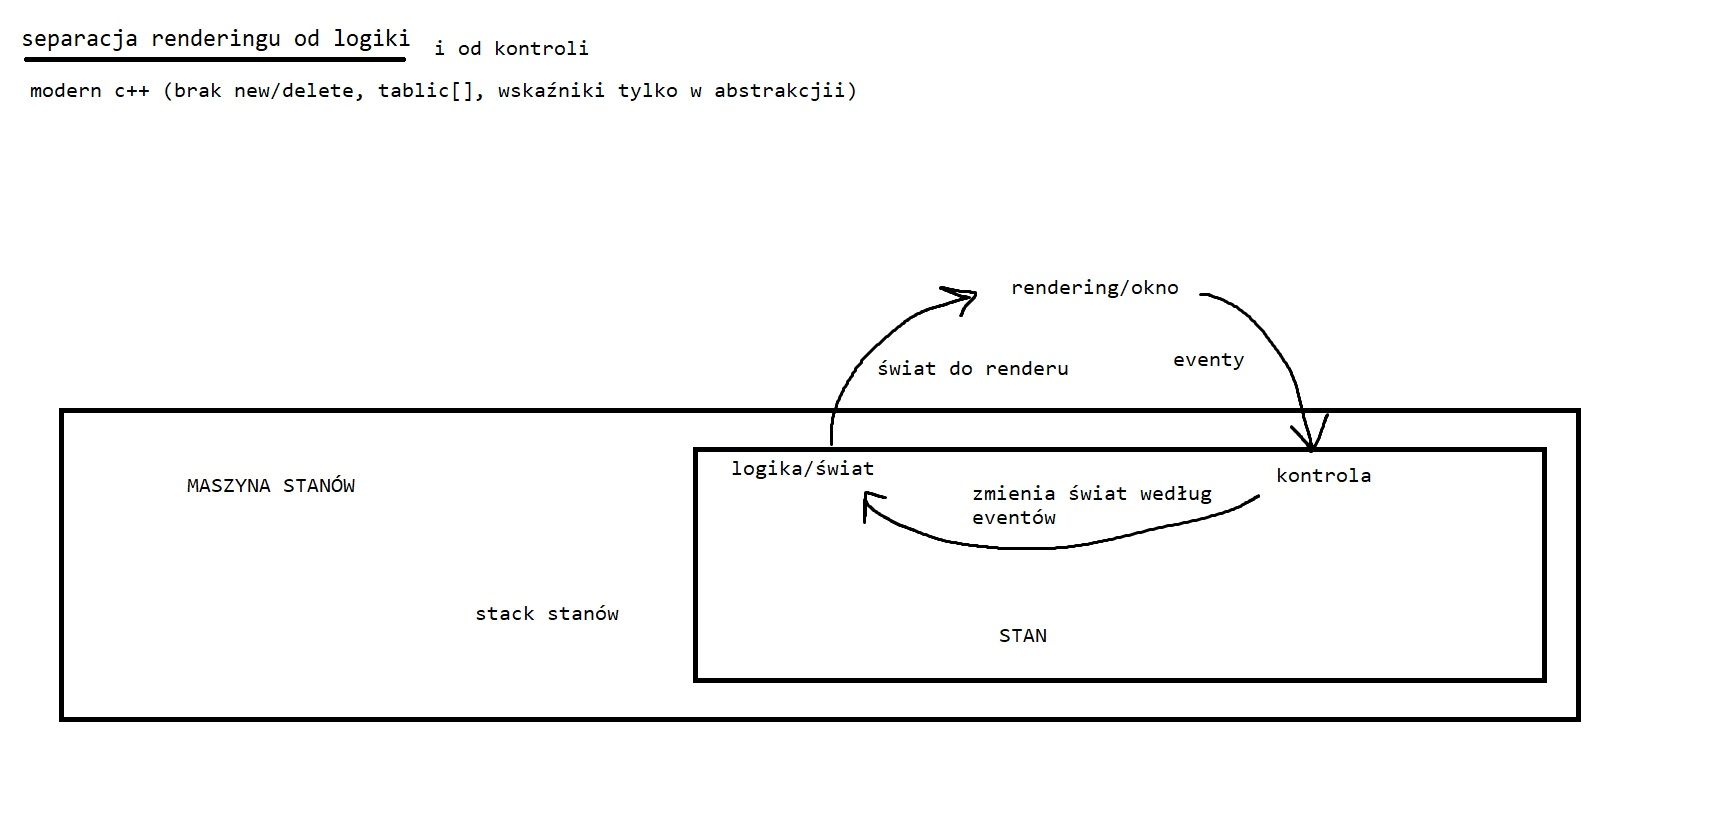
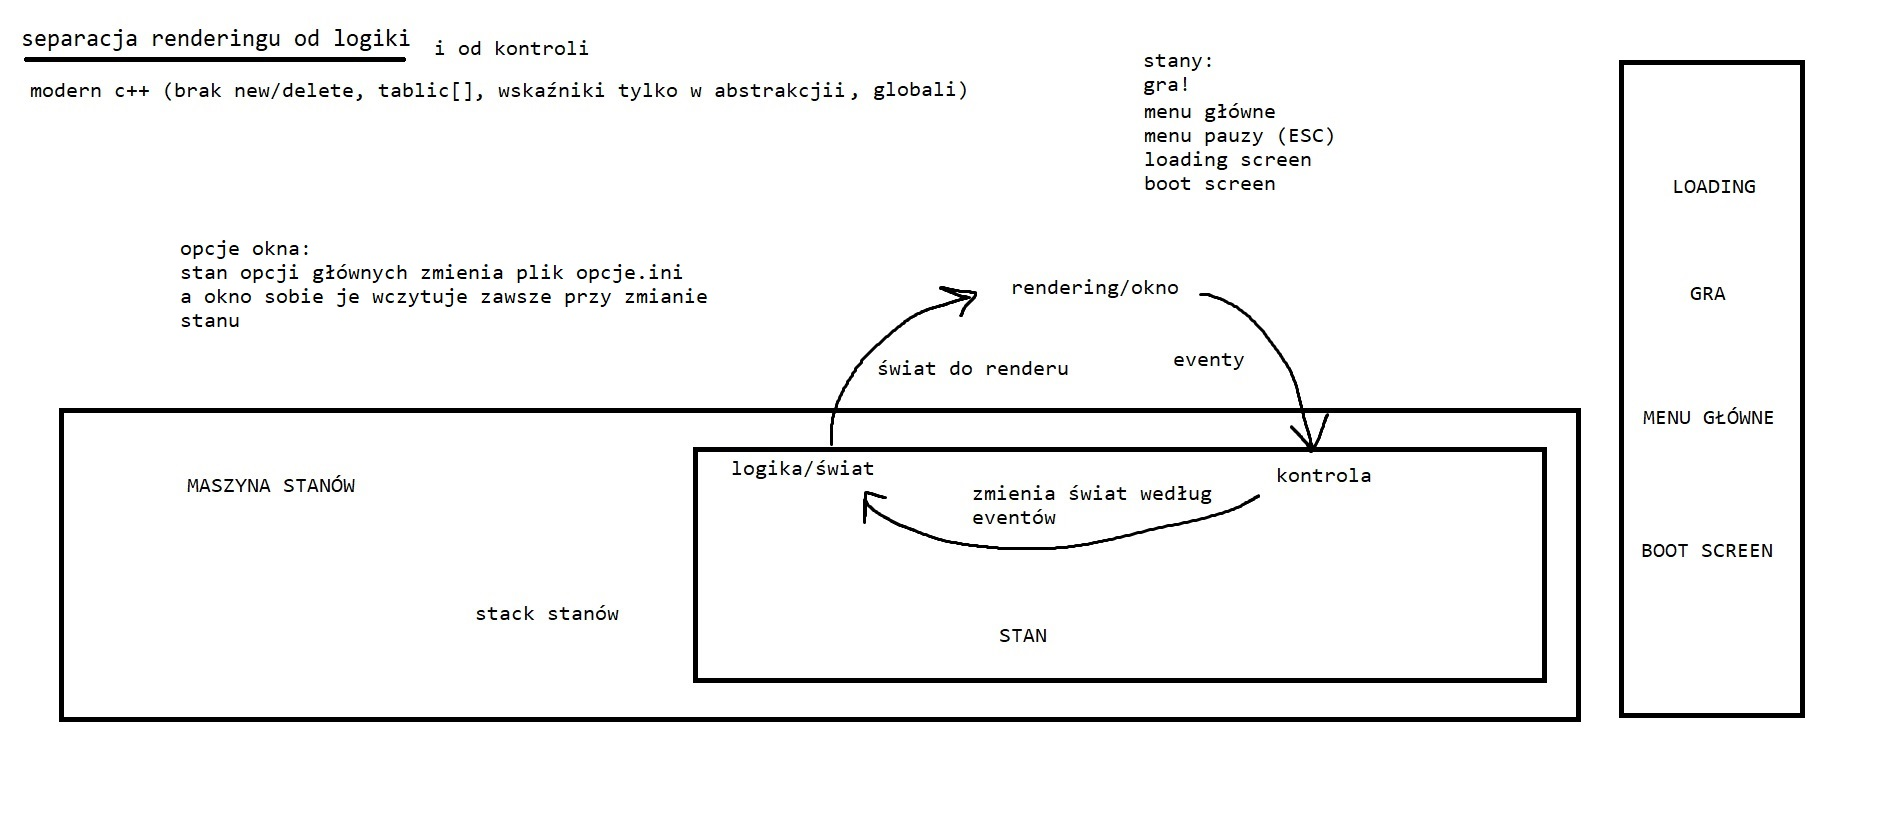
state machine, base state, window, main, etc

diff --git a/src/main.cpp b/src/main.cpp
@@ -1,20 +1,21 @@
 #include <SFML/Graphics.hpp>
 
+#include "stack_machine.hpp"
+#include "window.hpp"
+#include "states/state_boot.hpp"
+
 int main() {
-  sf::RenderWindow window(sf::VideoMode(200, 200), "SFML works!");
-  sf::CircleShape shape(100.f);
-  shape.setFillColor(sf::Color::Green);
 
-  while (window.isOpen()) {
-    sf::Event event;
-    while (window.pollEvent(event)) {
-      if (event.type == sf::Event::Closed)
-        window.close();
-    }
+  StackMachine machine;
+  Window window;
 
-    window.clear();
-    window.draw(shape);
-    window.display();
+  machine.m_game_stack.push(std::make_unique<StateBoot>());
+
+  while (!machine.m_game_stack.empty()) {
+    machine.m_game_stack.top()->GetEvents(window.GiveEvents());
+    machine.m_game_stack.top()->Compute(machine);
+    window.GetRenderStuffs(machine.m_game_stack.top()->GiveRenderStuffs());
+    window.Render();
   }
 
   return 0;

diff --git a/inc/window.hpp b/inc/window.hpp
@@ -1,0 +1,29 @@
+#pragma once
+
+#include "render_stuff.hpp"
+#include <SFML/Graphics.hpp>
+
+class Window {
+private:
+  sf::RenderWindow m_window;
+
+public:
+  Window();
+  ~Window();
+
+  Window(const Window& other) = delete;
+  Window(Window&& other) noexcept = delete;
+
+  Window& operator=(const Window& other) = delete;
+  Window& operator=(Window&& other) noexcept = delete;
+
+public:
+  void GetRenderStuffs(RenderStuffs& _render_stuffs);
+
+  void Render();
+
+  std::vector<sf::Event> GiveEvents();
+
+private:
+  // todo: wczytaj opcje
+};

diff --git a/inc/states/state_boot.hpp b/inc/states/state_boot.hpp
@@ -1,0 +1,16 @@
+
+#pragma once
+
+#include "../game_state.hpp"
+
+class StateBoot : public BaseGameState {
+public:
+  virtual void GetEvents(std::vector<sf::Event> _events) {}
+
+  virtual void Compute(StackMachine& _stack_machine) {}
+
+  virtual RenderStuffs GiveRenderStuffs() {
+    RenderStuffs render_stuffs;
+    return render_stuffs;
+  }
+};

diff --git a/inc/game_state.hpp b/inc/game_state.hpp
@@ -1,0 +1,16 @@
+#pragma once
+
+#include <SFML/Graphics.hpp>
+#include "render_stuff.hpp"
+
+class StackMachine;
+
+class BaseGameState {
+public:
+
+  virtual void GetEvents(std::vector<sf::Event> _events) = 0;
+
+  virtual void Compute(StackMachine& _stack_machine) = 0;
+
+  virtual RenderStuffs GiveRenderStuffs() = 0;
+};

diff --git a/src/window/give_events.cpp b/src/window/give_events.cpp
@@ -1,0 +1,12 @@
+#include "window.hpp"
+
+std::vector<sf::Event> Window::GiveEvents() {
+  std::vector<sf::Event> events;
+
+  sf::Event event;
+  while (m_window.pollEvent(event)) {
+    events.push_back(event);
+  }
+
+  return events;
+}

diff --git a/inc/stack_machine.hpp b/inc/stack_machine.hpp
@@ -1,0 +1,14 @@
+#pragma once
+
+#include <stack>
+#include <memory>
+#include "game_state.hpp"
+
+class StackMachine {
+public:
+  std::stack<std::unique_ptr<BaseGameState>> m_game_stack;
+
+
+};
+
+

diff --git a/src/window/window.cpp b/src/window/window.cpp
@@ -1,0 +1,10 @@
+#include "window.hpp"
+
+Window::Window() {
+  m_window.create(sf::VideoMode(200, 200), "HELLO WORLD!");
+
+}
+
+Window::~Window() {
+
+}

diff --git a/src/window/render.cpp b/src/window/render.cpp
@@ -1,0 +1,6 @@
+#include "window.hpp"
+
+void Window::Render() {
+  m_window.clear();
+  m_window.display();
+}

diff --git a/src/window/get_render_stuffs.cpp b/src/window/get_render_stuffs.cpp
@@ -1,0 +1,3 @@
+#include "window.hpp"
+
+void Window::GetRenderStuffs(RenderStuffs& _render_stuffs) {}
